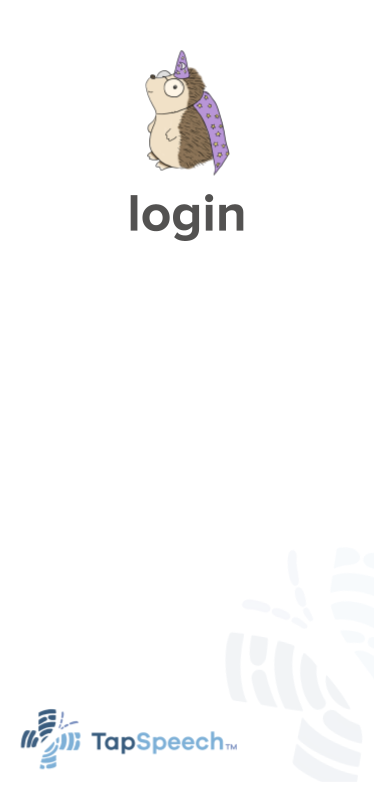
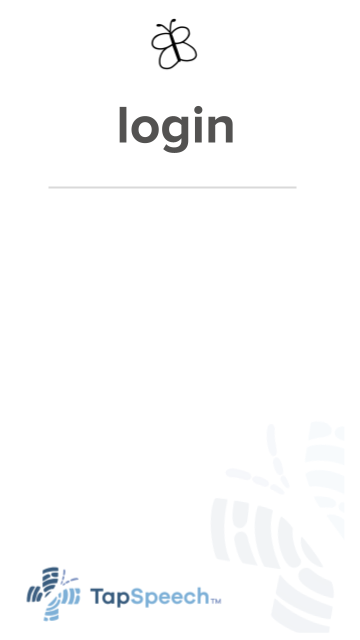
changed hedgehog to butterfly

Changed region(s): [[0.3056, 0.0312, 0.6722, 0.3125], [0.0611, 0.875, 0.6417, 0.9688]]

diff --git a/v2/tapSpeech.py b/v2/tapSpeech.py
@@ -28,7 +28,7 @@ from kivy.core.text import LabelBase
 from kivy.core.audio import SoundLoader
 from kivy.core.window import Window
 
-Window.size = (374.93, 793.7)
+Window.size = (360, 640)
 
 
 LabelBase.register(name='GalanoGrotesque', fn_regular='GalanoGrotesque.otf')
